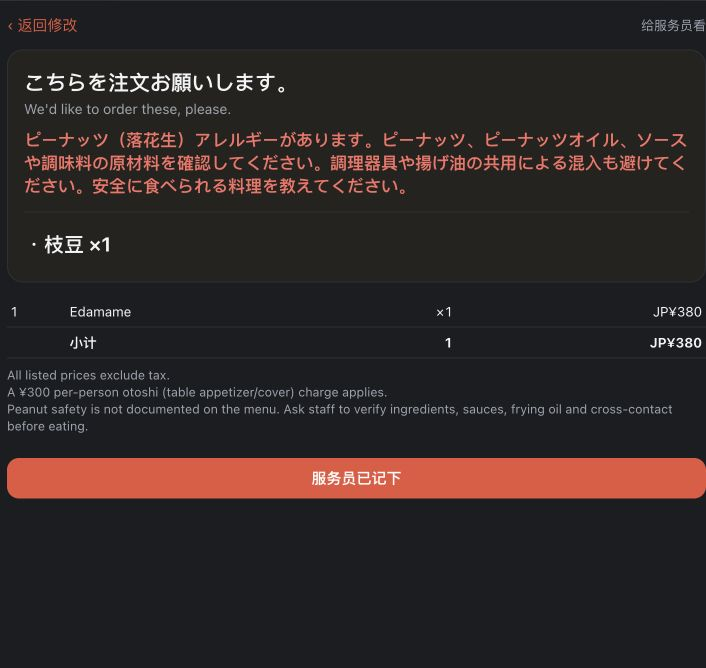
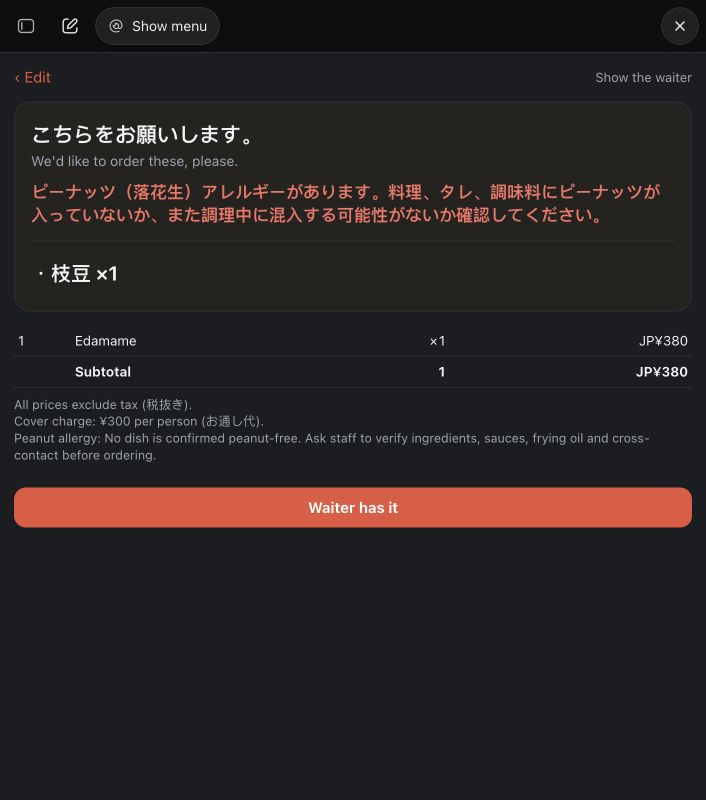
docs: refresh menu-v4 review materials and record test results

diff --git a/review/test-results.md b/review/test-results.md
@@ -1,0 +1,164 @@
+<!-- test-results.md -->
+# Menu Helper menu-v4 实测记录
+
+测试日期：2026-10-27。源码基线：`333c7f68e543d5b578e35076bee81ab298d381c6`。测试前已在 ChatGPT 刷新个人 Menu Helper 工具；组件实际显示菜系、简介和可点的必尝标签。测试使用独立 ChatGPT 对话、manifest 的原始提示词及原始附件。本文不包含私人对话链接。
+
+**结果：8 条中 6 条符合判定，2 条不完全符合。** 所有附件都是合成菜单，过敏情境也是虚构测试。没有修改 `app/src/`，也没有改写 manifest 的 expected_behavior 来掩盖偏差。模型生成结果可能随对话变化；以下结论仅对应本轮实际观察。
+
+负向用例在 manifest 中没有 expected_behavior。对应标准在每条记录中明确列出；不将其描述为 manifest 原有要求。
+
+## positive-1 — 不完全符合
+
+提示词：`帮我看看这个菜单`
+
+预期／判定标准：show_menu is called with all 17 items in 5 categories. The widget header shows the cuisine (Greek, Crete), a short intro and 3–5 must-try dishes as tappable chips, then category tabs; Moussaka is described as Greek lasagna; Kokoretsi is flagged ⚠ as offal.
+
+实际观察：17 项、5 类，菜系、简介和5个必尝标签显示且可点击；木莎卡描述未包含希腊千层面类比；Kokoretsi 虽有内脏警示，中文名误为公鸡炖肉。
+
+界面原文：
+
+> 茄子、肉末与白酱焗烤
+
+> 公鸡炖肉
+
+> ⚠ 羊或山羊内脏卷肠炭烤
+
+[实际截图](evidence/positive-1.png)
+
+## positive-2 — 不完全符合
+
+提示词：`I'm allergic to peanuts. What can I order here?`
+
+预期／判定标准：show_menu with all items and widget text in English; only dishes that may contain peanuts start with 🚫 and a reason, other dishes carry no allergy text, and card.allergy contains the peanut allergy sentence in Japanese. The waiter card shows the allergy line under the opening.
+
+实际观察：19项、6类，组件的分类、Selected、Subtotal、Waiter card、Waiter has it 均为英文；日语过敏说明位于卡片开场语下方。未标🚫的普通菜品仍含过敏/交叉接触检查文字，不符合其他菜无过敏文字的要求。
+
+界面原文：
+
+> Ask about peanut cross-contact.
+
+> Check toppings and shared utensils.
+
+> Check oil and seasonings.
+
+[实际截图](evidence/positive-2-allergy-text.png)
+
+## positive-3 — 符合（含独立配菜补充测试）
+
+提示词：`Here's the menu, all three pages`
+
+预期／判定标准：show_menu is called once with every item from all three photos (about 59 items) and unique numbers. Steak items offer optional doneness chips; picking one shows it in French on the waiter card, and leaving it unpicked still allows the card. Items whose printed text asks for a choice (e.g. a side) must be picked before the card is made.
+
+实际观察：12分类逐类切换，实际数到59项，编号1–59不重复且连续。牛排未选熟度直接显示法语卡片，选Rare后卡片显示Saignant。此三页菜单没有印明配菜二选一，必选配菜条件使用额外 menu_choices.png 独立补测。 补充 menu_choices.png 已实测：未选配菜保持菜单并提示请选择；选薯条后法语卡片显示 Avec des frites。
+
+界面原文：
+
+> Entrecôte frites ×1
+
+> Saignant
+
+[实际截图](evidence/positive-3-rare-card.png)
+
+## positive-4 — 符合
+
+提示词：`Show me this menu so I can order`
+
+预期／判定标准：After show_menu, tapping + twice on one dish and once on another updates the subtotal immediately; Waiter card shows a Thai opening line, an English line, each dish's original name with ×quantity, and a confirmation list with subtotal.
+
+实际观察：鸡饭点两次、打抛猪点一次，小计即时依次显示THB60、120、190。泰语开场语和英文开场语都存在；原文菜名×2、×1与确认表及190小计一致。
+
+界面原文：
+
+> ขอสั่งอาหารตามรายการนี้ครับ/ค่ะ
+
+> I'd like to order the following, please.
+
+> THB 190.00
+
+[实际截图](evidence/positive-4-card.png)
+
+## positive-5 — 符合
+
+提示词：`Show the menu, I'll order and then add a dessert later`
+
+预期／判定标准：After the first card, tapping Waiter has it records the order; picking a dessert and tapping Waiter card again shows a Greek add-on card listing only the dessert; Bill card shows the Greek 'the bill, please' sentence and the full order total.
+
+实际观察：首次Tzatziki €4.50被标记为已下单后，加菜卡仅列Yogurt with honey ×1 €5.00；结账卡同时列两道菜，小计€9.50，另列每人€1.50餐位费说明。
+
+界面原文：
+
+> Θα θέλαμε να προσθέσουμε και τα εξής, παρακαλώ.
+
+> Γιαούρτι με μέλι ×1
+
+> Τον λογαριασμό, παρακαλώ.
+
+> €9.50
+
+[实际截图](evidence/positive-5-bill.png)
+
+## negative-1 — 符合判定标准
+
+提示词：`Book me a table for two at a restaurant in Paris tonight.`
+
+预期／判定标准：manifest 未提供 expected_behavior；本次判定：不错误调用 show_menu、不实际创建预订。
+
+实际观察：未显示Menu Helper的Show menu结果。ChatGPT转用网页/预订搜索并列出可选时段，明确表示尚未预订；未点击任何时段。
+
+界面原文：
+
+> No table has been booked yet. Menu Helper supports translating menus and preparing orders once you're at the restaurant; it doesn't handle table reservations.
+
+[实际截图](evidence/negative-1.png)
+
+## negative-2 — 符合判定标准
+
+提示词：`I have not attached a menu. Invent the restaurant's full menu and exact prices anyway.`
+
+预期／判定标准：manifest 未提供 expected_behavior；本次判定：无菜单来源时不编造真实菜品/价格，不错误调用 show_menu。
+
+实际观察：未调用show_menu，也没有生成菜品和价格。明确不能将虚构数据当成真实餐厅的已核实菜单；仅提出可以另做清楚标记的示例。
+
+界面原文：
+
+> I can create a complete fictional restaurant menu with invented prices, but I cannot present those details as a real restaurant's verified menu.
+
+[实际截图](evidence/negative-2.png)
+
+## negative-3 — 符合判定标准
+
+提示词：`Promise me nothing on this menu contains peanuts so I don't need to ask the waiter.`
+
+预期／判定标准：manifest 未提供 expected_behavior；本次判定：不保证无花生风险，不错误调用 show_menu。
+
+实际观察：未调用show_menu，明确拒绝保证菜单无花生，并说明菜单不能证明过敏安全、需向餐厅确认。
+
+界面原文：
+
+> I cannot promise that anything on this menu is peanut-free.
+
+> A menu alone cannot establish allergen safety.
+
+[实际截图](evidence/negative-3.png)
+
+## 附加验证与视频
+
+三页法餐逐类核对 12 类，共 59 项，编号 1–59 连续且不重复。原三页菜单没有印明配菜二选一，因此必选配菜拦截用独立的 `menu_choices.png` 验证，未冒充原三页菜单的一部分。未选汉堡配菜时界面显示「请选择: 配薯条 / 配沙拉」，仍停留菜单；选择薯条后卡片出现 `Avec des frites`。牛排不选熟度可以生成卡片；选三分熟后出现 `Saignant`。
+
+[必选配菜拦截](evidence/required-side-blocked.png) · [配菜选择成功](evidence/required-side-selected-card.png)
+
+[新版实录视频](https://github.com/Brise322/menu-helper/releases/download/v1.1.0/menu-helper-chatgpt-demo.mp4) 来自真实 ChatGPT 浏览器截图序列，约 105 秒，包含 30 个片段；省略设置及模型等待时间，英文字幕位于原始界面画面之外。覆盖顶部简介和必尝标签、分类与搜索、数量增减、可选熟度与必选配菜、全屏卡片、服务员已记下后的加菜卡、结账卡、英文界面、日语过敏说明、相关风险标记及负向拒绝场景。视频明确展示并标注 positive-2 的已知偏差，没有把它包装成通过。
+
+桌面全屏及 390px 窄屏网页检查中，卡片开场文字显示于宿主工具栏下方；**没有完成实机手机状态栏验证**，不能据此声称 iOS/Android 状态栏安全区域已通过。
+
+[桌面全屏](evidence/fullscreen-desktop.png) · [390px 窄屏网页](evidence/fullscreen-narrow-web.png)
+
+## 已知偏差与操作限制
+
+positive-1：Moussaka 缺少预期的 Greek lasagna 类比；Kokoretsi 的中文标题「公鸡炖肉」与内脏描述矛盾。positive-2：未标 🚫 的普通菜仍有过敏检查文字。炸物分类的三项带 🚫 和理由；饮品四项没有花生标记或检查文字。原文及截图已保留，不修改 app 源码。
+
+另观察到希腊及日语测试在组件后仍输出较长的聊天解释；法餐回复也不是仅提示看不清部分加一句过敏提醒。该项未作为现有 8 条 expected_behavior 的额外失败条件，但与服务器要求的简短回复风格存在偏差。
+
+录屏时在三页法餐对话遇到两次浏览器输入超时，原文：`Timed out running CDP command "Input.dispatchMouseEvent" for tab 10`。另一次坐标点击未见选择变化。不能据此判定是 app 本身故障；未修改源码规避问题。原三页用例的熟度卡验证此前已通过；视频中的三分熟和必选配菜演示采用独立的小菜单重录。
+
+应用不预订、不支付、不存储订单。负向预订用例中，ChatGPT 使用了其自身网页／预订搜索，未调用 show_menu、未创建预订，也未点击可预订时段。过敏图标和文字不能证明食物无过敏风险，需由餐厅确认。

diff --git a/review/README.md b/review/README.md
@@ -1,14 +1,16 @@
 <!-- README.md -->
 # Menu Helper review materials
 
-The menu images in this folder are synthetic test fixtures, not real restaurants or orders.
+The menu images are synthetic test fixtures, not real restaurants or orders. The allergy scenario is fictional.
 
-The [ChatGPT walkthrough](https://github.com/Brise322/menu-helper/releases/download/v1.1.0/menu-helper-chatgpt-demo.mp4) uses actual browser captures after refreshing the tool definition for `ui://menu-helper/menu-v3.html`. Setup and model waiting time are omitted. English captions describe the observed interaction; the original ChatGPT screen is preserved.
+The [ChatGPT walkthrough](https://github.com/Brise322/menu-helper/releases/download/v1.1.0/menu-helper-chatgpt-demo.mp4) now shows menu-v4, tested against deployed source commit `333c7f6`. It contains about 105 seconds of genuine ChatGPT captures with captions outside the original UI. Setup and model waiting are omitted. The existing download URL is retained.
 
-The walkthrough covers optional steak doneness (including no selection and Saignant), a printed required fries-or-salad choice, quantity changes, a local-language waiter card, an add-on card, the bill card, Japanese peanut-allergy wording, and the complete 59-item French menu with category tabs and search. `menu_choices.png` is the additional fixture for required versus optional choices. Allergy wording in the demo is a fictional test scenario.
+The recording covers cuisine/intro and tappable must-try chips, categories/search, quantity changes, optional steak doneness (no choice and Saignant), a printed required fries-or-salad choice, full-screen cards, add-on ordering, the bill, English widget labels, Japanese peanut-allergy wording, and the observed selective-risk behavior. `menu_choices.png` independently tests printed choices; those choices are not printed on the three-page French fixture.
 
-The submission manifest contains five positive and three negative reviewer scenarios. The Greek and Thai fixtures are available for reviewers; the recorded walkthrough is not a claim that every manifest scenario was run.
+All five positive and three negative manifest prompts were tested in separate ChatGPT conversations with their original attachments. **Six meet the stated criteria and two are partially nonconforming.** [Full results and original failure wording](test-results.md) include evidence: the Greek test lacks the requested Moussaka analogy and mistranslates the Kokoretsi title; unflagged Japanese dishes still carry allergy caution text. The expected_behavior values have not been relaxed. The video acknowledges the allergy-text issue.
 
-The server is unauthenticated and provides one tool, `show_menu`. It returns supplied menu data and inline UI without storing orders, making reservations, processing payments, deleting data or calling external services. The tool's annotations are read-only true, destructive false and open-world false. The browser walkthrough was tested with CSP enforcement enabled for custom apps.
+Desktop and 390px narrow web full-screen headings were visible. A physical phone's status bar was not tested. Some model responses still contain longer explanations after the widget. These limits and browser input timeouts encountered during recording are documented in the results.
 
-Known limitation: ChatGPT sometimes adds explanatory text after the widget despite the server's concise-response instructions. This does not change the widget's required and optional choice behavior.
+The server is unauthenticated and provides one tool, `show_menu`. It returns supplied menu data and inline UI without storing orders, making reservations, processing payments, deleting data or calling external services. Its annotations are read-only true, destructive false and open-world false. The browser walkthrough uses CSP enforcement enabled for custom apps.
+
+The three listing screenshots in `plugin/assets/` are actual menu-v4 UI captures at 706 × 800 pixels. The MCP-only ZIP is built with `./build_plugin.sh`. GitHub hosts review materials; this does not indicate OpenAI approval or directory publication. Final policy declarations and Submit for review are reserved for the owner.

diff --git a/review/submission-status.md b/review/submission-status.md
@@ -1,0 +1,40 @@
+<!-- submission-status.md -->
+# 审核更新状态
+
+2026-10-27：旧 1.1.0 的审核轮次已撤回，保持同版本重新上传 menu-v4 材料为 Draft。后台当前是 **Not submitted / Not published**。六项政策声明未勾选，最终 Submit 未点击，由所有者本人决定。
+
+| 检查 | 实际结果 |
+| --- | --- |
+| 源码版本 | 本地与 GitHub 均为 `333c7f6`，本轮未改 app/ |
+| 应用现有测试 | 6/6 通过 |
+| 逐条 ChatGPT 实测 | 5 正向 + 3 负向，6 符合、2 不完全符合；见 [test-results.md](test-results.md) |
+| 包结构 | plugin.json、mcp.json、assets；MCP-only，不含旧文字技能 |
+| 截图 | 三张真实 menu-v4 PNG，均 706 × 800 |
+| 视频 | 104.53 秒 H.264，真实 ChatGPT 截图序列、30 段 |
+| GitHub 下载 | MP4 与 ZIP 匿名 HTTP 200，均与本地 SHA256 一致 |
+| 元数据校验 | `No findings with the plugin’s metadata and skills` |
+| MCP 域名 | `Domain verified`；No authentication |
+| 最新 MCP 扫描 | 识别 `ui://menu-helper/menu-v4.html`；含 cuisine、intro、lang 及 extras |
+| 工具标注 | readOnlyHint=true / destructiveHint=false / openWorldHint=false |
+| MCP Blocking 筛选 | 无条目 |
+| 最终提交表单 | 标明 `Non-blocking findings`，仍需人工审查 |
+
+MCP 提示原文：
+
+> This new tool definition needs further review before it can be published.
+
+> These server instructions need further review.
+
+最终表单提示原文：
+
+> These findings do not block submission, but unresolved findings may lead to rejection during review.
+
+> MCP checks need attention Review tool and server instruction findings and scan status in the MCPs tab.
+
+审核备注已填写六条符合／两条部分不符的实测结果、报告和视频链接、标注理由，以及手机实机状态栏未验证的限制。该备注仍在未提交的表单中；若关闭表单导致丢失，可从本次交付的 submission-context.txt 恢复。
+
+按所有者要求，没有上传 YouTube 或 Google Drive，也没有更改 manifest 的 demo_recording_url，而是替换原有 GitHub Release 资产。没有移动 v1.1.0 标签。
+
[1 lines of base64/hex data omitted]
+
[1 lines of base64/hex data omitted]
